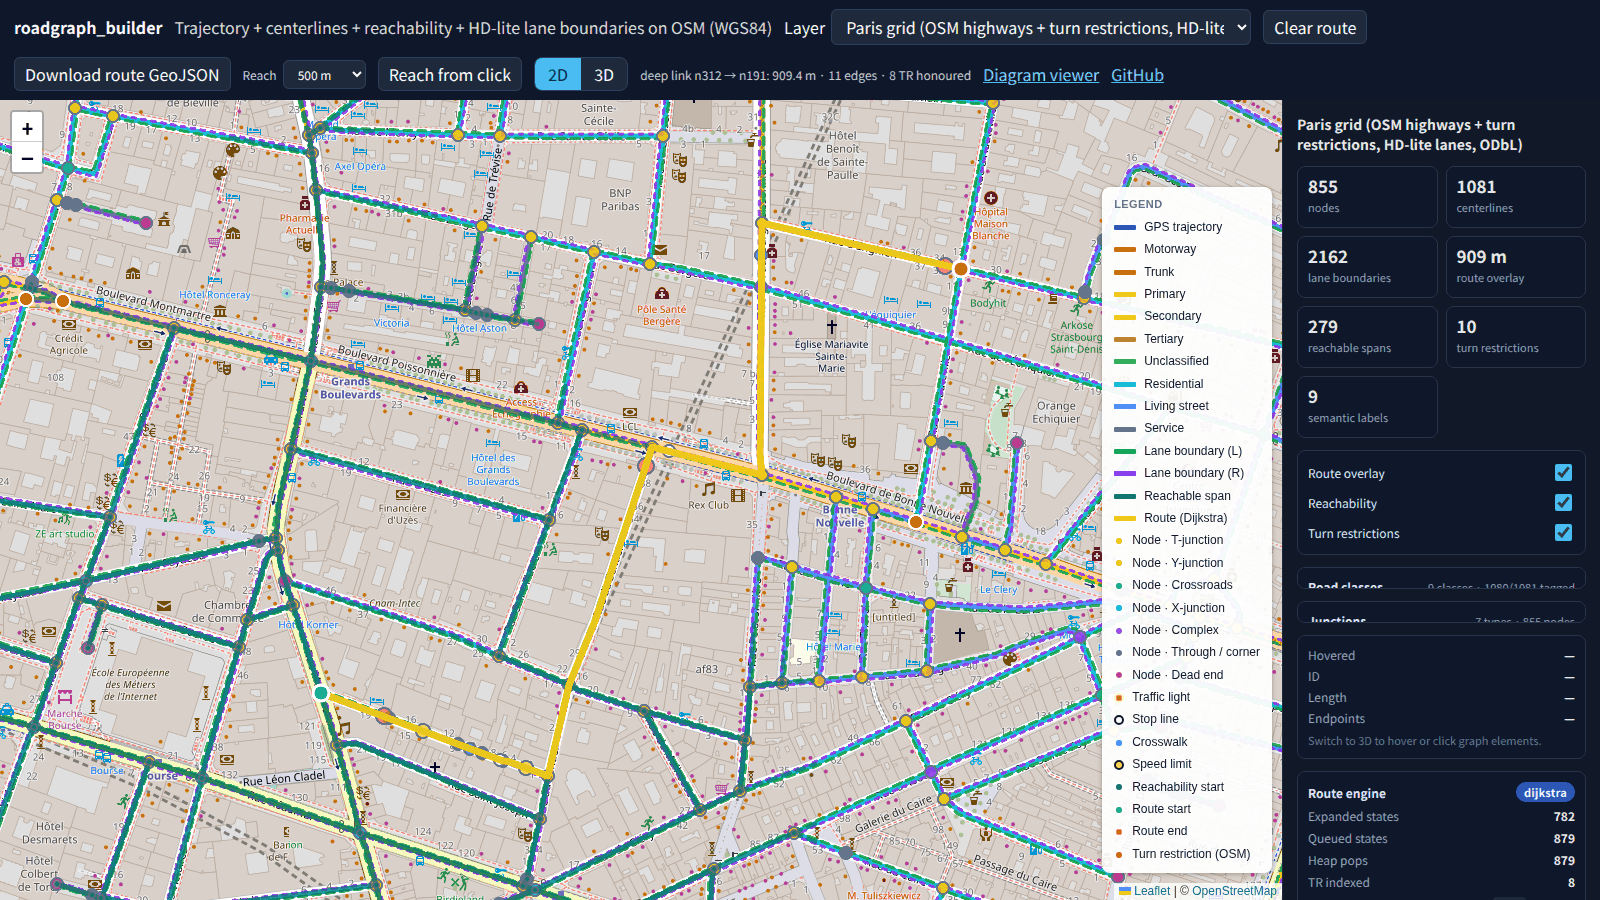
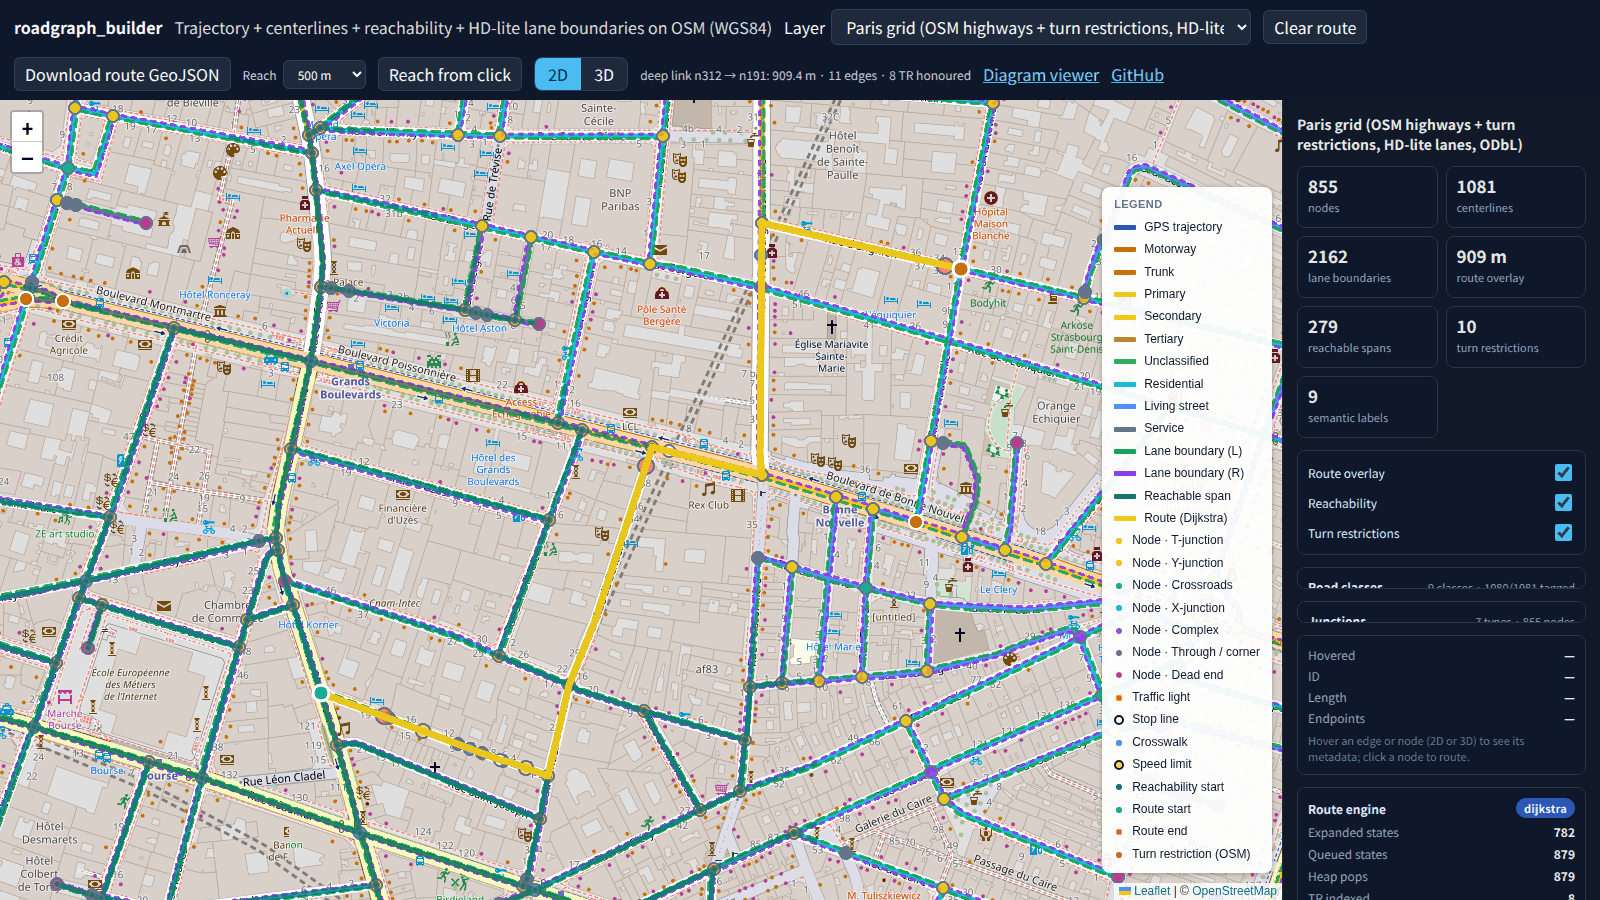
feat(viewer): mirror the hover card on 2D Leaflet feature hover
The inspector's #hover-card already showed edge / node metadata on
3D raycaster hover, but the 2D Leaflet view stayed silent — hovering
a centerline in the main map did nothing even though the same card
was visible on screen. That asymmetry hid the OSM highway / lane
count / junction type information the console already knew from
every feature.

This change wires the 2D hover path through the same card.

hoverHitFromProps(props) translates a GeoJSON feature property bag
into the shape setHoverCard() expects for node, centerline /
lane_centerline, route, and reachable_edge features (node carries
its junction category, edges carry highway / osm_lanes / maxspeed /
name, reachable spans carry the span length derived from cost
deltas).

bindHoverSync(feature, layer) installs mouseover / mouseout handlers
on every Leaflet layer so the card updates while the pointer is over
a feature and resets when it leaves. bindCommonPopups() calls it at
the top of its chain so the existing base / route / reachability
overlays all pick up the binding with no extra wiring. The empty-
state hint was updated to "Hover an edge or node (2D or 3D) …" so
it describes the actual behaviour on both views.

Browser smoke calls the helper on node / centerline / reachable_edge
property bags, asserts the translated fields (category, highway,
osmLanes, lengthM), invokes setHoverCard() on the node hit to verify
the DOM picks up the category label, and confirms setHoverCard(null)
[…]

Changed region(s): [[0.8125, 0.8089, 1.0, 1.0]]

diff --git a/docs/js/map_console.js b/docs/js/map_console.js
@@ -635,9 +635,8 @@ function setHoverCard(hit) {
     lenEl.textContent = "—";
     endEl.textContent = "—";
     if (hintEl) {
-      hintEl.textContent = activeView === "3d"
-        ? "Hover an edge or node in the 3D view; click a node to set route endpoints."
-        : "Switch to 3D to hover or click graph elements.";
+      hintEl.textContent =
+        "Hover an edge or node (2D or 3D) to see its metadata; click a node to route.";
     }
     return;
   }
@@ -1153,8 +1152,66 @@ bindOverlayToggle("toggle-route", routeOverlayLayer);
 bindOverlayToggle("toggle-reachability", reachabilityOverlayLayer);
 bindOverlayToggle("toggle-restrictions", restrictionsOverlayLayer);
 
+// Translate a GeoJSON feature's property bag into the shape setHoverCard()
+// accepts so 2D Leaflet hover mirrors the 3D raycaster hover.
+function hoverHitFromProps(p) {
+  if (!p || !p.kind) return null;
+  if (p.kind === "node" && p.node_id) {
+    return {
+      kind: "node",
+      nodeId: String(p.node_id),
+      category: junctionCategory(p),
+    };
+  }
+  if ((p.kind === "centerline" || p.kind === "lane_centerline") && p.edge_id) {
+    return {
+      kind: p.kind,
+      edgeId: String(p.edge_id),
+      lengthM: typeof p.length_m === "number" ? p.length_m : null,
+      startNode: p.start_node_id || null,
+      endNode: p.end_node_id || null,
+      highway: p.highway || null,
+      osmLanes:
+        typeof p.osm_lanes === "number" ? p.osm_lanes : null,
+      osmMaxspeed: p.osm_maxspeed || null,
+      osmName: p.osm_name || null,
+    };
+  }
+  if (p.kind === "route") {
+    return {
+      kind: "route",
+      edgeId: null,
+      lengthM: typeof p.total_length_m === "number" ? p.total_length_m : null,
+      startNode: p.from_node || null,
+      endNode: p.to_node || null,
+    };
+  }
+  if (p.kind === "reachable_edge") {
+    const cost =
+      typeof p.end_cost_m === "number" && typeof p.start_cost_m === "number"
+        ? p.end_cost_m - p.start_cost_m
+        : null;
+    return {
+      kind: "reachable_edge",
+      edgeId: p.edge_id ? String(p.edge_id) : null,
+      lengthM: cost,
+      startNode: p.from_node || null,
+      endNode: p.to_node || null,
+    };
+  }
+  return null;
+}
+
+function bindHoverSync(f, layer) {
+  const hit = hoverHitFromProps(f.properties || {});
+  if (!hit) return;
+  layer.on("mouseover", () => setHoverCard(hit));
+  layer.on("mouseout", () => setHoverCard(null));
+}
+
 function bindCommonPopups(f, layer) {
   const p = f.properties || {};
+  bindHoverSync(f, layer);
   if (p.kind === "node" && p.node_id) {
     let txt = String(p.node_id);
     if (p.degree != null) txt += "<br>degree: " + p.degree;

diff --git a/docs/PLAN.md b/docs/PLAN.md
@@ -6,7 +6,7 @@
 > このファイル → [`docs/ARCHITECTURE.md`](./ARCHITECTURE.md)（Mermaid 6 枚 + CLI 対応表 +
 > モジュール索引）→ [`CHANGELOG.md`](../CHANGELOG.md) の順。
 
-*最終更新: 2026-04-24 session（V1 実測 / camera warning fix / perf flake fix / docs sync / completions sync / Paris accuracy refresh / Berlin tuning sweep / README+docs visual preview + measured-results cards polish + README measured-results compacting / float32 opt-in + drift report + compare script + 1M synthetic memory profile + OSM public-trace replay profile / release bundle byte + normalized-manifest gate + manifest policy docs polish / private repo Pages blocked note / CLI boundary split wave 完了 / README release surface 整理 / v0.7.1 release + asset verification / packaging metadata smoke / 0.7.2.dev0 reopen / Actions Node24 update / release+PyPI dry-run / routing hot-path perf / nearest spatial index / cache invalidation hardening / build graph spatial merge perf / T-junction segment index perf / lean near-parallel merge loop / GeoJSON export compact path / compact bundle JSON writer / README quick-start smoke / release readiness dry-run refresh / reachable service-area CLI / reachable docs overlay / reachable benchmark coverage / benchmark baseline JSON / reachability analyzer perf / routing core split / RoutePlanner perf / GitHub star-growth surfaces / launch kit docs / safe A* routing / route explain diagnostics / route explain docs surface / route explain comparison UI / route diagnostics README screenshot / functional shortest_path planner cache + sampled validation / nearest-edge projection index / match-trajectory explain diagnostics / HMM bridge ambiguity benchmark / HMM adjacency reuse perf / HMM tail-cost cache / HMM long trajectory benchmark / edge-index cell tuning / 2D/3D map console / PLAN handoff expansion / map console pushed + CI green / Claude handoff refresh / map console hero screenshots / map console browser smoke opt-in pytest / map console JS split + 3D raycaster picking / map console deep link + route steps inspector / map console route export + deep-link 自動 fit + hero screenshot refresh / Paris grid + Berlin Mitte HD-lite lanes & committed viewer dataset / junction topology color coding / OSM road-class color coding + class breakdown / animated map console hero GIF / JS route engine diagnostics in inspector / Paris grid synthetic camera semantic overlay / live reachability on click）を反映済み。*
+*最終更新: 2026-04-24 session（V1 実測 / camera warning fix / perf flake fix / docs sync / completions sync / Paris accuracy refresh / Berlin tuning sweep / README+docs visual preview + measured-results cards polish + README measured-results compacting / float32 opt-in + drift report + compare script + 1M synthetic memory profile + OSM public-trace replay profile / release bundle byte + normalized-manifest gate + manifest policy docs polish / private repo Pages blocked note / CLI boundary split wave 完了 / README release surface 整理 / v0.7.1 release + asset verification / packaging metadata smoke / 0.7.2.dev0 reopen / Actions Node24 update / release+PyPI dry-run / routing hot-path perf / nearest spatial index / cache invalidation hardening / build graph spatial merge perf / T-junction segment index perf / lean near-parallel merge loop / GeoJSON export compact path / compact bundle JSON writer / README quick-start smoke / release readiness dry-run refresh / reachable service-area CLI / reachable docs overlay / reachable benchmark coverage / benchmark baseline JSON / reachability analyzer perf / routing core split / RoutePlanner perf / GitHub star-growth surfaces / launch kit docs / safe A* routing / route explain diagnostics / route explain docs surface / route explain comparison UI / route diagnostics README screenshot / functional shortest_path planner cache + sampled validation / nearest-edge projection index / match-trajectory explain diagnostics / HMM bridge ambiguity benchmark / HMM adjacency reuse perf / HMM tail-cost cache / HMM long trajectory benchmark / edge-index cell tuning / 2D/3D map console / PLAN handoff expansion / map console pushed + CI green / Claude handoff refresh / map console hero screenshots / map console browser smoke opt-in pytest / map console JS split + 3D raycaster picking / map console deep link + route steps inspector / map console route export + deep-link 自動 fit + hero screenshot refresh / Paris grid + Berlin Mitte HD-lite lanes & committed viewer dataset / junction topology color coding / OSM road-class color coding + class breakdown / animated map console hero GIF / JS route engine diagnostics in inspector / Paris grid synthetic camera semantic overlay / live reachability on click / 2D hover card sync）を反映済み。*
 
 ---
 
@@ -374,6 +374,16 @@
       browser smoke に `#junctions-card` / `#junctions-list li >= 4` / `N types · N nodes` assert
       を追加し、hero screenshots を再生成。Paris grid で 7 categories (t/y/crossroads/x/complex/
       through/dead) が色分け表示される状態。
+  84. 2D Leaflet hover を `#hover-card` に同期。
+      `docs/js/map_console.js` に `hoverHitFromProps(props)` を追加し、feature property から
+      setHoverCard() 互換の shape (`node` / `centerline` / `lane_centerline` / `route` /
+      `reachable_edge`) を返す。`bindHoverSync(feature, layer)` が Leaflet layer に
+      `mouseover` / `mouseout` を bind して hover card を更新し、`bindCommonPopups()` の先頭で
+      呼ぶ。これで 2D マウスオーバーでも 3D と同じ hover card（Edge · Primary · 3 lanes,
+      Node · T-junction など）が出るようになり、2D / 3D UX 対称性が揃う。
+      空状態の hint も "Hover an edge or node (2D or 3D) …" へ更新。browser smoke に
+      `hoverHitFromProps` 各 kind の出力検証 + setHoverCard(null) 復帰確認を追加。
+
   83. live reachability on click を map console に実装。
       `.bar` に `Reach` 予算 select（250/500/1000/2000 m、default 500）と
       `Reach from click` button を追加。button を押すと `reachSelectionMode = true` で次の

diff --git a/CHANGELOG.md b/CHANGELOG.md
@@ -82,6 +82,18 @@ and this project adheres to [Semantic Versioning](https://semver.org/spec/v2.0.0
   browser smoke covers the `n312 → n191` deep link, asserting the card is
   visible, multiple steps render, and the URL retains `from` / `to`.
 
+- **Hover card updates when you mouse over 2D Leaflet features.**
+  Previously the inspector's `#hover-card` only reacted to the 3D
+  raycaster. A new `hoverHitFromProps()` helper turns a feature property
+  bag into the shape `setHoverCard()` already accepts, and
+  `bindHoverSync(feature, layer)` wires `mouseover` / `mouseout` on every
+  Leaflet layer so the 2D map surfaces the same edge / node metadata
+  (Edge ID, Primary · 3 lanes, Node · T-junction, reachable spans, etc.)
+  as the 3D view. The empty-card hint now reads "Hover an edge or node
+  (2D or 3D) …". Browser smoke asserts the helper produces the expected
+  shapes for node / centerline / reachable_edge and that
+  `setHoverCard(null)` resets the card.
+
 - **Live reachability-from-click in the map console.**
   `docs/map.html` gains a `Reach` budget select (250 / 500 / 1000 / 2000 m,
   default 500) and a `Reach from click` toggle button. Activating the toggle
